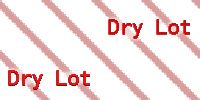
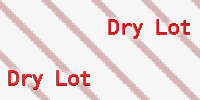
Increase contrast for farm fields in the map.

diff --git a/grazescape/static/grazescape/public/js/map/RotationLayer.js b/grazescape/static/grazescape/public/js/map/RotationLayer.js
@@ -1,22 +1,16 @@
-
-//------------------------------------------------------------------------------
 Ext.define('DSS.map.RotationLayer', {
-//------------------------------------------------------------------------------
 	extend: 'Ext.Base',
 	alias: 'widget.rotation_layer',
 	
-	//-------------------------------------------------------------------------
 	instantiate: function(map) {
 		let me = this;
-		console.log("init rotation layer &&&&&&&&&&&&&&&&&&&777")
+
 		DSS['rotationStyles'] = { };
-		
 
 		let canvas = document.createElement('canvas');
 		let context = canvas.getContext('2d');
 		
 		let createPatternLoc = function(imgSrc, cropCode, strokeColor) {
-			//console.log('inside createPattern')
 			let img = new Image();
 			img.onload = function() {
 				let pattern = context.createPattern(img, 'repeat');
@@ -41,29 +35,9 @@ Ext.define('DSS.map.RotationLayer', {
 		createPatternLoc('/static/grazescape/public/images/pasture.png', 			'pt-rt', '#380');
 		createPatternLoc('/static/grazescape/public/images/pasture.png', 			'pt-cn', '#380');
 		createPatternLoc('/static/grazescape/public/images/dry_lot.png', 			'dl', '#a11');
-		createPatternLoc('/static/grazescape/public/images/continuous_corn.png',		'cc', '#770');
-		createPatternLoc('/static/grazescape/public/images/cash_grain.png',			'cg', '#ffcc33');
+		createPatternLoc('/static/grazescape/public/images/continuous_corn.png',	'cc', '#f2f030');
+		createPatternLoc('/static/grazescape/public/images/cash_grain.png',			'cg', '#3897b0');
 
-		console.log(DSS['rotationStyles']);
-		
-		// DSS.layer.fields_1 = new ol.layer.Vector({
-		// 	visible: DSS.layer['crop:visible'],
-		// 	opacity: DSS.layer['crop:opacity'],
-		// 	updateWhileAnimating: true,
-		// 	updateWhileInteracting: true,
-		// 	source: geoServer.setFieldSource(),
-		// 	style: function(feature, resolution) {
-		// 		if (feature && feature.getProperties()) {
-		// 			let rot = feature.getProperties()['rotation']; 
-		// 			if (rot && DSS.rotationStyles[rot]) {
-		// 				return DSS.rotationStyles[rot];
-		// 			}
-		// 		}
-		// 	}
-		// });	
-
-		//map.addLayer(DSS.layer.fields_1);
 		return me;
 	},
-
 });
